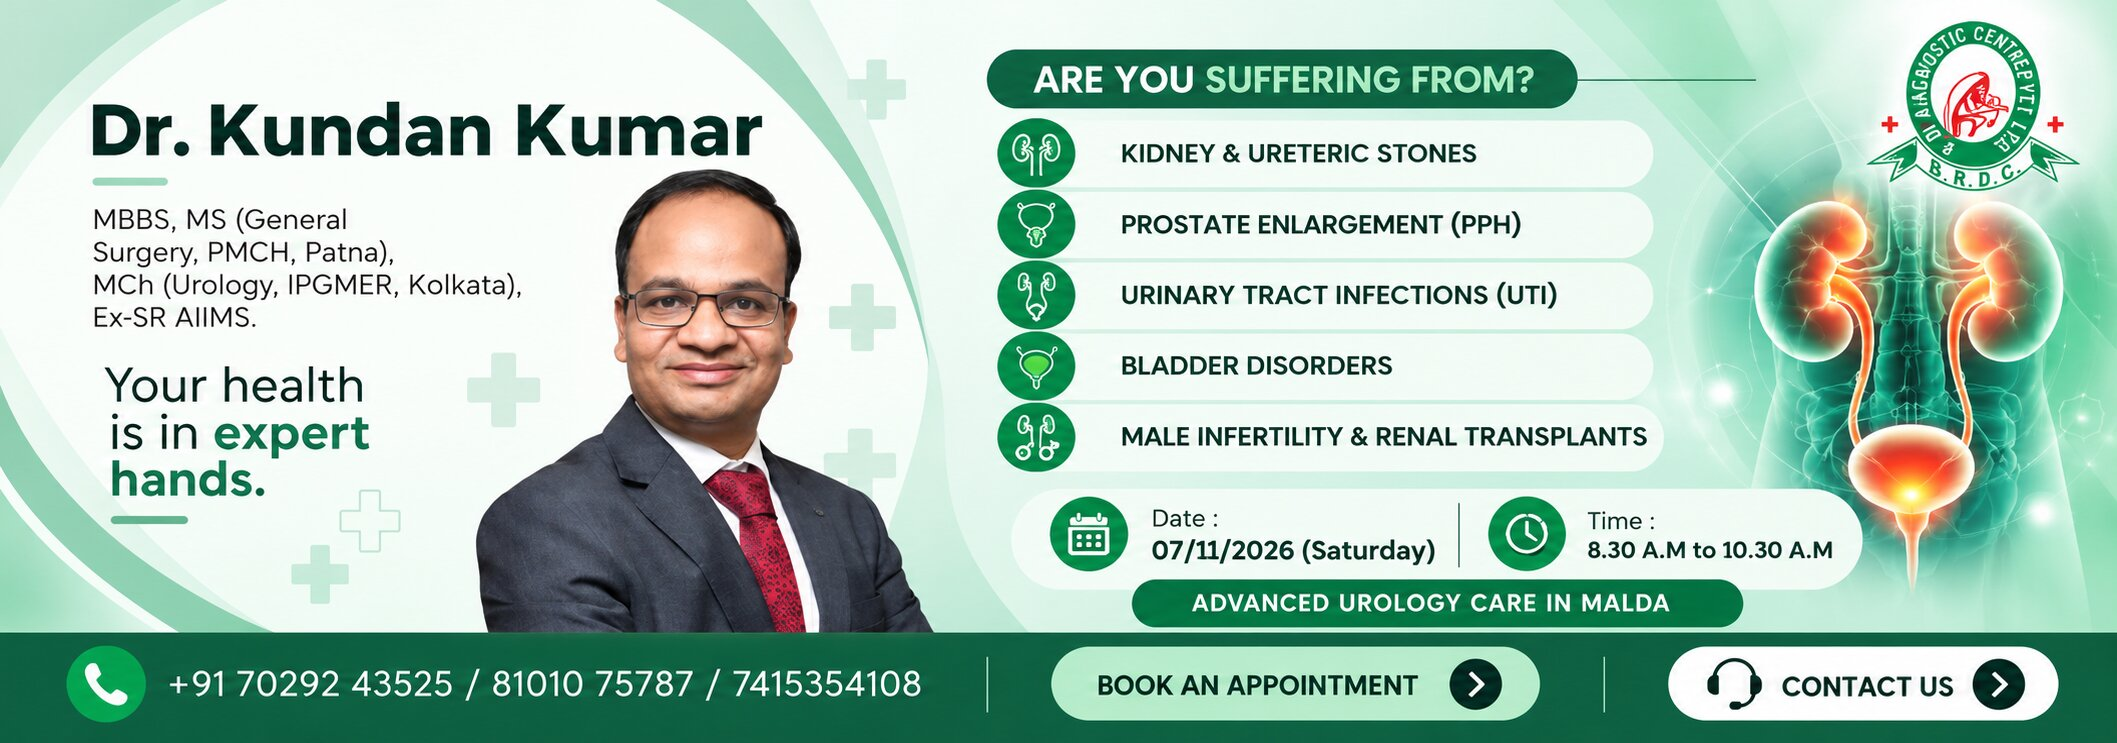
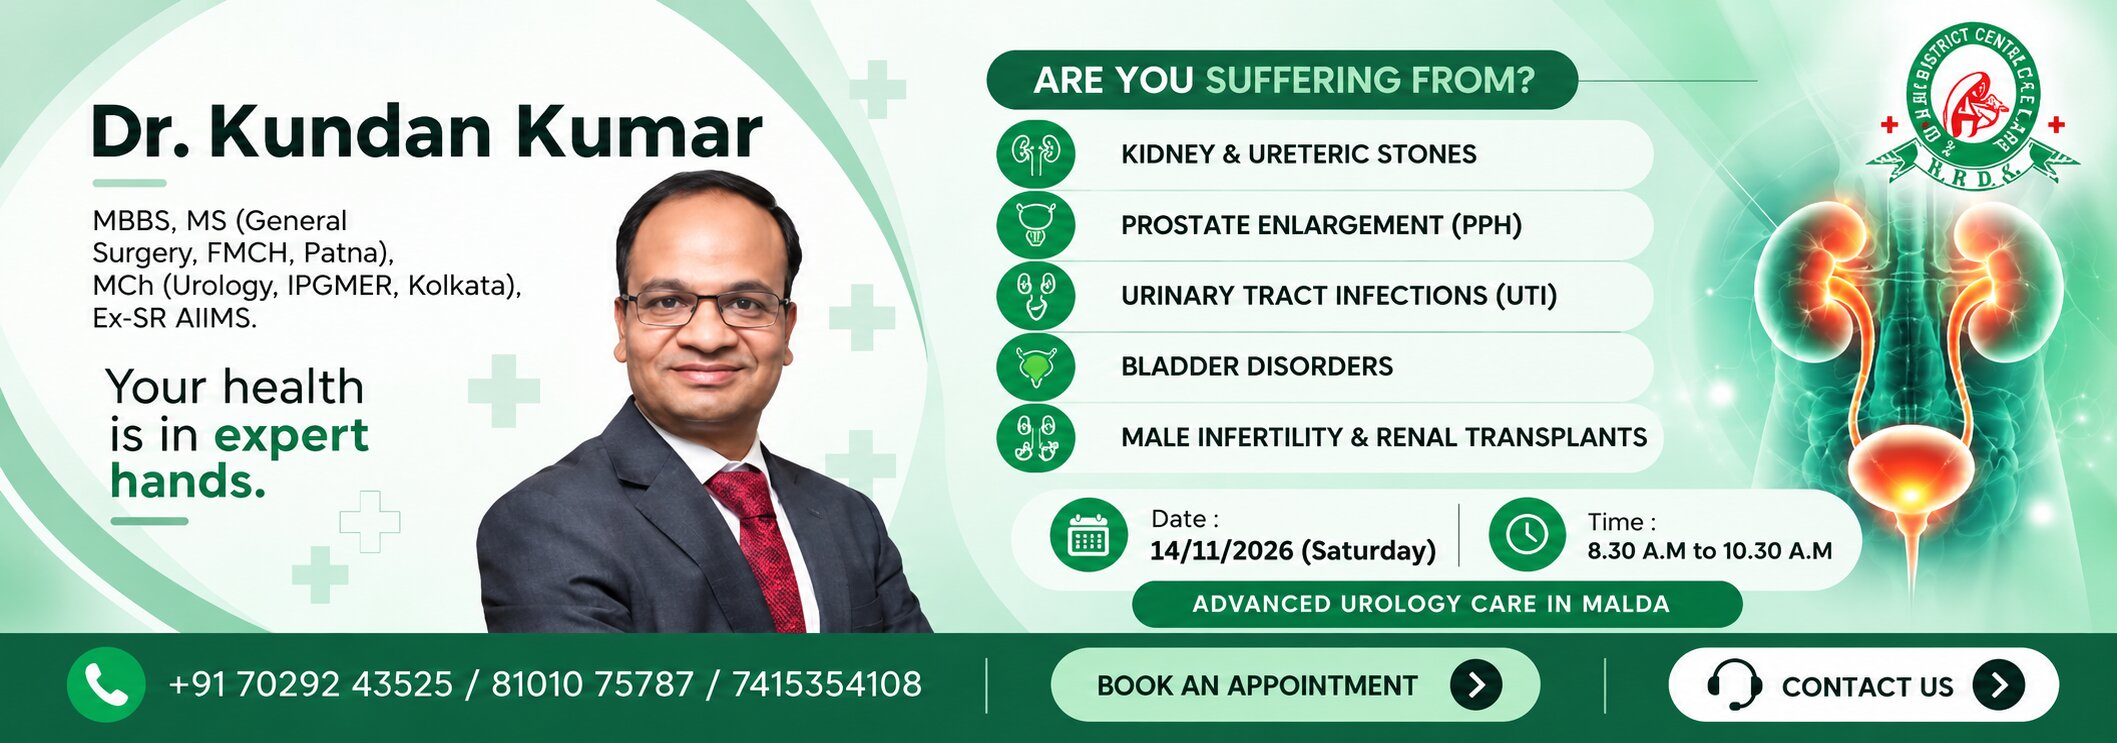
Update doctor listings and add Chayan Kumar Roy profile

diff --git a/src/app/data/doctorsData.js b/src/app/data/doctorsData.js
@@ -3,6 +3,7 @@ import bbkumar from "../assets/doctors/DR-B.B-Kumar.png";
 import drbarundatta from "../assets/doctors/DR-Barun-Datta.png";
 import drKundanKumar from "../assets/doctors/DR-Kundan-Kumar.png";
 import drYRadhakrishna from "../assets/doctors/DR-Y-Radhakrishna.png";
+import drChayanKumarRoy from "../assets/doctors/DR-Chayan-Kumar-Roy.png";
 import drMaitreyeeSarkar from "../assets/doctors/DR-Maitreyee-Sarkar.png";
 import drSarwarHossain from "../assets/doctors/DR-Sarwar-Hossain.png";
 import drSagarMantri from "../assets/doctors/DR-Sagar-Mantri.png";
@@ -11,6 +12,65 @@ import drKunalHaldar from "../assets/doctors/DR-Kunal_Halder.png";
 import drMohitNahata from "../assets/doctors/DR-Mohit-Nahata.png";
 import drMrinalMandal from "../assets/doctors/DR-Mrinal-Mandal.png";
 
+
+const MONTHS = {
+  January: 0,
+  February: 1,
+  March: 2,
+  April: 3,
+  May: 4,
+  June: 5,
+  July: 6,
+  August: 7,
+  September: 8,
+  October: 9,
+  November: 10,
+  December: 11,
+};
+
+export function parseDoctorDate(dateText) {
+  if (!dateText || typeof dateText !== "string") return null;
+
+  const value = dateText.trim();
+  if (!value) return null;
+
+  if (/Every|Daily|Daily in the afternoon|Thursday & Sunday|Saturday|Sunday|Monday|Tuesday|Wednesday|Friday|Weekend/i.test(value)) {
+    return "recurring";
+  }
+
+  const slashMatch = value.match(/^(\d{1,2})\/(\d{1,2})\/(\d{4})$/);
+  if (slashMatch) {
+    const [, day, month, year] = slashMatch;
+    return new Date(Number(year), Number(month) - 1, Number(day));
+  }
+
+  const longMatch = value.match(/^(\d{1,2})(?:st|nd|rd|th)?\s+([A-Za-z]+)\s+(\d{4})$/i);
+  if (longMatch) {
+    const [, day, monthName, year] = longMatch;
+    const monthIndex = MONTHS[monthName];
+    if (monthIndex !== undefined) {
+      return new Date(Number(year), monthIndex, Number(day));
+    }
+  }
+
+  return null;
+}
+
+export function isDoctorLive(doctor) {
+  if (!doctor) return false;
+  if (doctor.disabled) return false;
+
+  const appointmentDate = doctor.appointment?.date;
+  const parsed = parseDoctorDate(appointmentDate);
+
+  if (parsed === "recurring") return true;
+  if (!parsed) return false;
+
+  const today = new Date();
+  today.setHours(0, 0, 0, 0);
+
+  return parsed >= today;
+}
 
 export const doctorsData = [
   {
@@ -124,6 +184,11 @@ export const doctorsData = [
   {
     category: "Gastroenterologists",
     doctors: [
+      {
+        name: "Dr. Chayan Kumar Roy",
+        info: "M.D. (General Medicine), D.N.B. (Gastroenterology)",
+        timing: "",
+      },
       {
         name: "Dr. Y. Radhakrishna",
         info: "M.D. Medicine (PGI), D.M. Gastroenterology (SGPGI), Fellow in Transplant Hepatology (New York, USA), Fellow in Therapeutic Endoscopy, La Paz, South America",
@@ -403,13 +468,13 @@ export const detailedDoctors = [
       city: "Malda, West Bengal",
     },
     appointment: {
-      date: "7th November 2026",
+      date: "14/11/2026",
       time: "08:30 AM to 10:30 AM",
-      displayDate: "7th November 2026 (1st Saturday)",
+      displayDate: "14/11/2026 (Saturday)",
     },
     notice: {
       title: "Special Consultation Camp at Malda",
-      text: "Dr. Kundan Kumar will be available for consultation at B.R Diagnostic Center, Malda on <strong>7th November 2026 (1st Saturday)</strong> from <strong>8:30 AM onwards</strong>. Book your slot now!",
+      text: "Dr. Kundan Kumar will be available for consultation at B.R Diagnostic Center, Malda on <strong>14/11/2026 (Saturday)</strong> from <strong>8:30 AM onwards</strong>. Book your slot now!",
     },
     appointmentTypes: [
       { value: "", label: "Select Type" },
@@ -478,13 +543,13 @@ export const detailedDoctors = [
       city: "Malda, West Bengal",
     },
     appointment: {
-      date: "10th October 2026",
-      time: "8:00 AM onwards",
-      displayDate: "10th October 2026 (Saturday)",
+      date: "14/11/2026",
+      time: "08:00 AM onwards",
+      displayDate: "14/11/2026 (Saturday)",
     },
     notice: {
       title: "Special Consultation Camp at Malda",
-      text: "Dr. Y. Radhakrishna will be available for consultation at B.R Diagnostic Center, Malda on <strong>10th October 2026</strong>. Book your slot now!",
+      text: "Dr. Y. Radhakrishna will be available for consultation at B.R Diagnostic Center, Malda on <strong>14/11/2026 (Saturday)</strong>. Book your slot now!",
     },
     appointmentTypes: [
       { value: "", label: "Select Type" },
@@ -531,6 +596,85 @@ export const detailedDoctors = [
       { icon: "check_circle", title: "Digestive Cancers" },
     ],
     avatar: drYRadhakrishna,
+  },
+
+  // Chayan Kumar Roy
+
+  {
+    slug: "dr-chayan-kumar-roy",
+    name: "Dr. Chayan Kumar Roy",
+    displayName: "DR. CHAYAN KUMAR ROY",
+    specialty: "GASTROENTEROLOGIST",
+    credentials: [
+      { name: "MBBS", type: "normal" },
+      { name: "MD (General Medicine)", type: "normal" },
+      { name: "DNB (Gastroenterology)", type: "highlight" },
+    ],
+    metaItems: [
+      { icon: "work_history", text: "11+ Years Experience" },
+      { icon: "medical_services", text: "Digestive & Liver Care" },
+    ],
+    hospital: "B.R Diagnostic Center",
+    location: {
+      name: "B.R Diagnostic Center - Malda",
+      address: "B.R Diagnostic Center",
+      city: "Malda, West Bengal",
+    },
+    appointment: {
+      date: "11/11/2026",
+      time: "09:00 AM onwards",
+      displayDate: "11/11/2026",
+    },
+    notice: {
+      title: "Special Consultation Camp at Malda",
+      text: "Dr. Chayan Kumar Roy will be available for consultation at B.R Diagnostic Center, Malda on <strong>11/11/2026</strong>. Book your slot now!",
+    },
+    appointmentTypes: [
+      { value: "", label: "Select Type" },
+      { value: "First Consultation", label: "First Consultation" },
+      { value: "Follow-up Visit", label: "Follow-up Visit" },
+      {
+        value: "Gastroenterology Consultation",
+        label: "Gastroenterology Consultation",
+      },
+      { value: "Stomach Care", label: "Stomach Care" },
+    ],
+    concernAreas: [
+      "Indigestion",
+      "Bloating",
+      "Acidity",
+      "Stomach Discomfort",
+      "Digestive Disorders",
+      "Other",
+    ],
+    medicalHistory: {
+      label: "Any Chronic Conditions?",
+      name: "procedure_history",
+      options: [
+        { value: "Yes", label: "Yes" },
+        { value: "No", label: "No", checked: true },
+      ],
+    },
+    trustCredentials: [
+      { icon: "school", title: "MBBS, MD, DNB", subtitle: "Medical Graduate" },
+      { icon: "local_hospital", title: "Gastroenterology Specialist", subtitle: "Digestive Care" },
+      {
+        icon: "verified",
+        title: "Medical Registration Verified",
+        subtitle: "11+ Years Experience",
+      },
+    ],
+    specializations: [
+      { icon: "medical_services", title: "Acid Reflux" },
+      { icon: "healing", title: "Abdominal Pain" },
+      { icon: "local_hospital", title: "Digestive Disorders" },
+      { icon: "bloodtype", title: "Liver Care" },
+    ],
+    specialtyInterests: [
+      { icon: "check_circle", title: "GERD Management" },
+      { icon: "check_circle", title: "Functional Gut Disorders" },
+    ],
+    avatar: drChayanKumarRoy,
   },
 
   // Mohit Nahata

diff --git a/src/app/data/homeData.js b/src/app/data/homeData.js
@@ -2,6 +2,7 @@ import drBarunDutta from "@/app/assets/doctorHeroBanner/Dr_Barun_Dutta_Website_c
 import drBBKumar from "@/app/assets/doctorHeroBanner/Dr_BB_Kumar_Website_cover.jpg";
 import drKundanKumar from "@/app/assets/doctorHeroBanner/Dr_Kundan_Kumar_Website_cover.jpg";
 import drYRadhakrishna from "@/app/assets/doctorHeroBanner/Dr_Y_Radhakrishna_Website_cover.jpg";
+import drChayanKumarRoy from "@/app/assets/doctorHeroBanner/Dr_Chayan_Kumar_Roy_Website_cover.jpg";
 import drSarwarHossain from "@/app/assets/doctorHeroBanner/Dr_Sarwar_Hossain_Website_cover.jpg";
 import drMaitreyeeSarkar from "@/app/assets/doctorHeroBanner/Dr_Maitreyee_Sarkar_Website_cover.jpg";
 // import drSagarMantri from "@/app/assets/doctorHeroBanner/Dr_Sagar_Mantri_Website_cover.jpg"; // (commented out - banner hidden temporarily)
@@ -34,14 +35,14 @@ export const heroBanners = [
   },
   {
     id: 3,
-    display: false,
+    display: true,
     imageSrc: drKundanKumar,
     link: "/our-doctors/dr-kundan-kumar",
     altText: "Dr. Kundan Kumar Banner",
   },
   {
     id: 4,
-    display: false,
+    display: true,
     imageSrc: drYRadhakrishna,
     link: "/our-doctors/dr-y-radhakrishna",
     altText: "Dr. Y Radhakrishna Banner",
@@ -49,12 +50,19 @@ export const heroBanners = [
   {
     id: 5,
     display: true,
+    imageSrc: drChayanKumarRoy,
+    link: "/our-doctors/dr-chayan-kumar-roy",
+    altText: "Dr. Chayan Kumar Roy Banner",
+  },
+  {
+    id: 6,
+    display: true,
     imageSrc: drMaitreyeeSarkar,
     link: "/our-doctors/dr-maitreyee-sarkar",
     altText: "Dr. Maitreyee Sarkar Banner",
   },
   {
-    id: 6,
+    id: 7,
     display: true,
     imageSrc: drSarwarHossain,
     link: "/our-doctors/dr-sarwar-hossain",

diff --git a/src/components/home/DoctorsPreview.jsx b/src/components/home/DoctorsPreview.jsx
@@ -3,7 +3,7 @@ import {
   ArrowRight, ArrowUpRight, Stethoscope, Baby, Brain, Bone, Ear, Droplets,
   Activity, Scissors, Dumbbell, Ribbon, Pill, Flower2,
 } from "lucide-react";
-import { detailedDoctors, doctorsData } from "@/app/data/doctorsData";
+import { detailedDoctors, doctorsData, isDoctorLive } from "@/app/data/doctorsData";
 import Reveal from "@/components/ui/Reveal";
 
 const disabledDoctorNames = new Set(
@@ -50,7 +50,10 @@ export default function DoctorsPreview() {
 
         <div className="flex flex-wrap justify-center gap-4">
           {doctorsData
-            .filter((section) => section.doctors.some((doctor) => !disabledDoctorNames.has(doctor.name)))
+            .filter((section) => section.doctors.some((doctor) => {
+              const profile = detailedDoctors.find((item) => item.name === doctor.name);
+              return !disabledDoctorNames.has(doctor.name) && (!profile || isDoctorLive(profile));
+            }))
             .map((section) => {
             const Icon = categoryIcons[section.category] || Stethoscope;
             return (

diff --git a/src/app/our-doctors/page.js b/src/app/our-doctors/page.js
@@ -1,7 +1,7 @@
 import CTABanner from "@/components/ui/CTABanner";
 import DoctorsHero from "@/components/our-doctors/DoctorsHero";
 import DoctorsDirectory from "@/components/our-doctors/DoctorsDirectory";
-import { detailedDoctors, doctorsData } from "@/app/data/doctorsData";
+import { detailedDoctors, doctorsData, isDoctorLive } from "@/app/data/doctorsData";
 import { heroBanners } from "@/app/data/homeData";
 
 export const metadata = {
@@ -28,7 +28,7 @@ const sections = doctorsData.map((section) => ({
   category: section.category,
   doctors: section.doctors.flatMap((doc) => {
     const profile = getDoctorProfile(doc.name);
-    if (profile?.disabled) return [];
+    if (!profile || !isDoctorLive(profile)) return [];
 
     return {
       name: doc.name,
